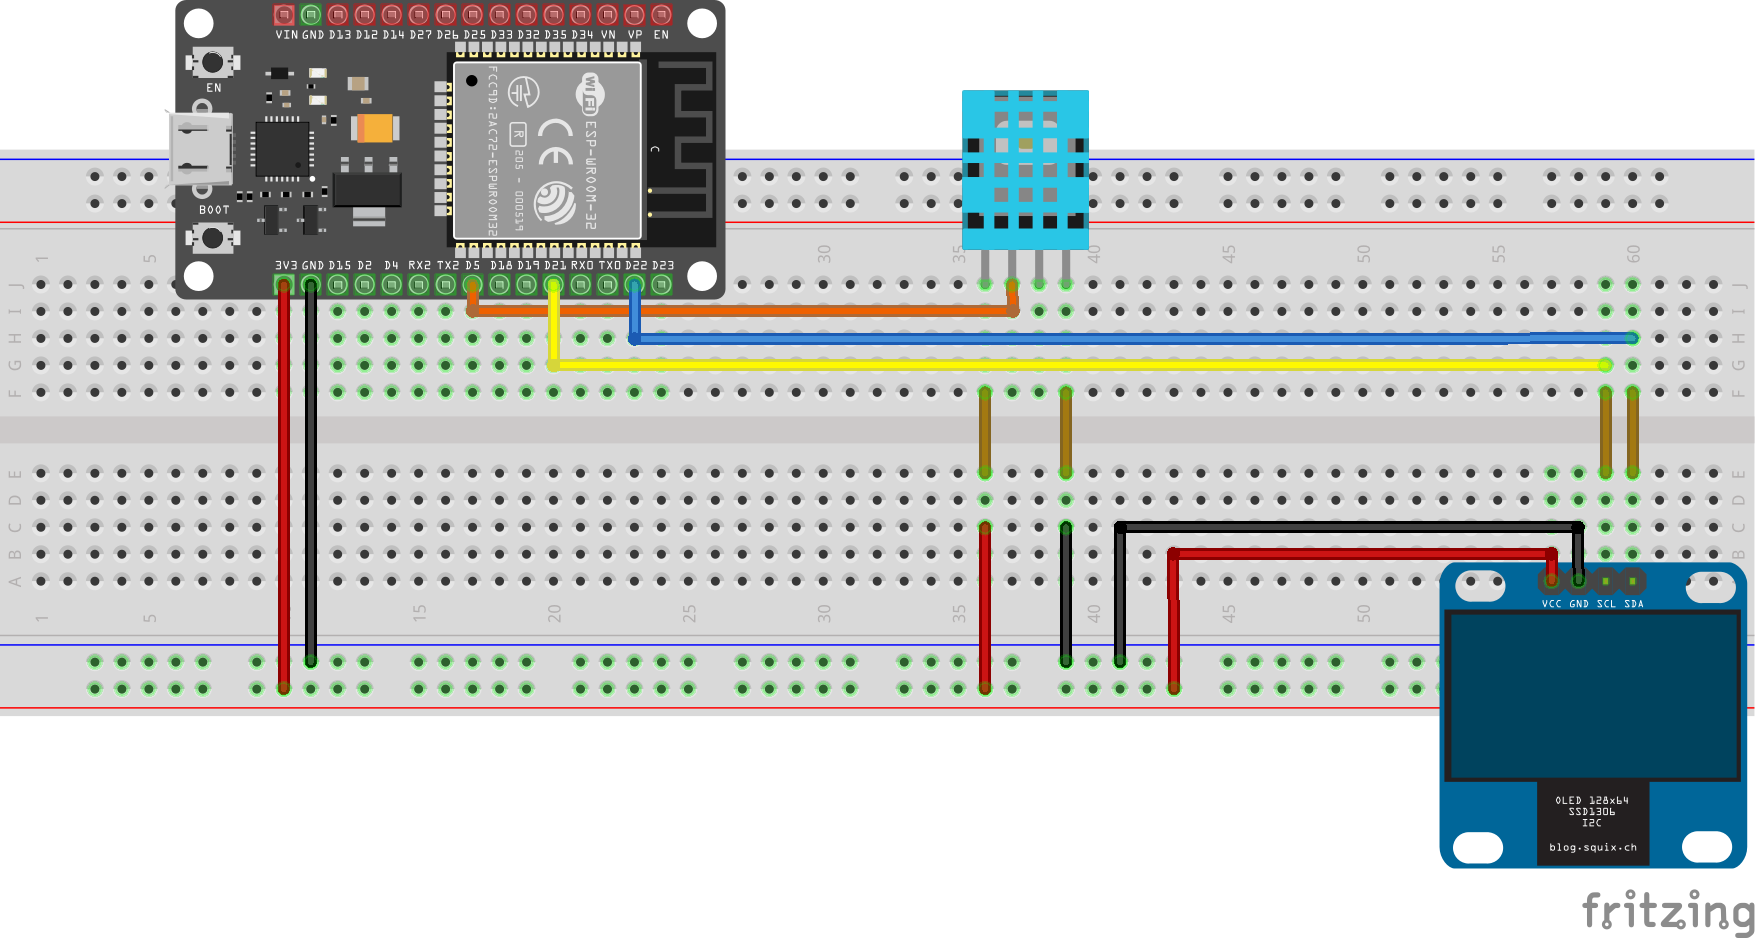
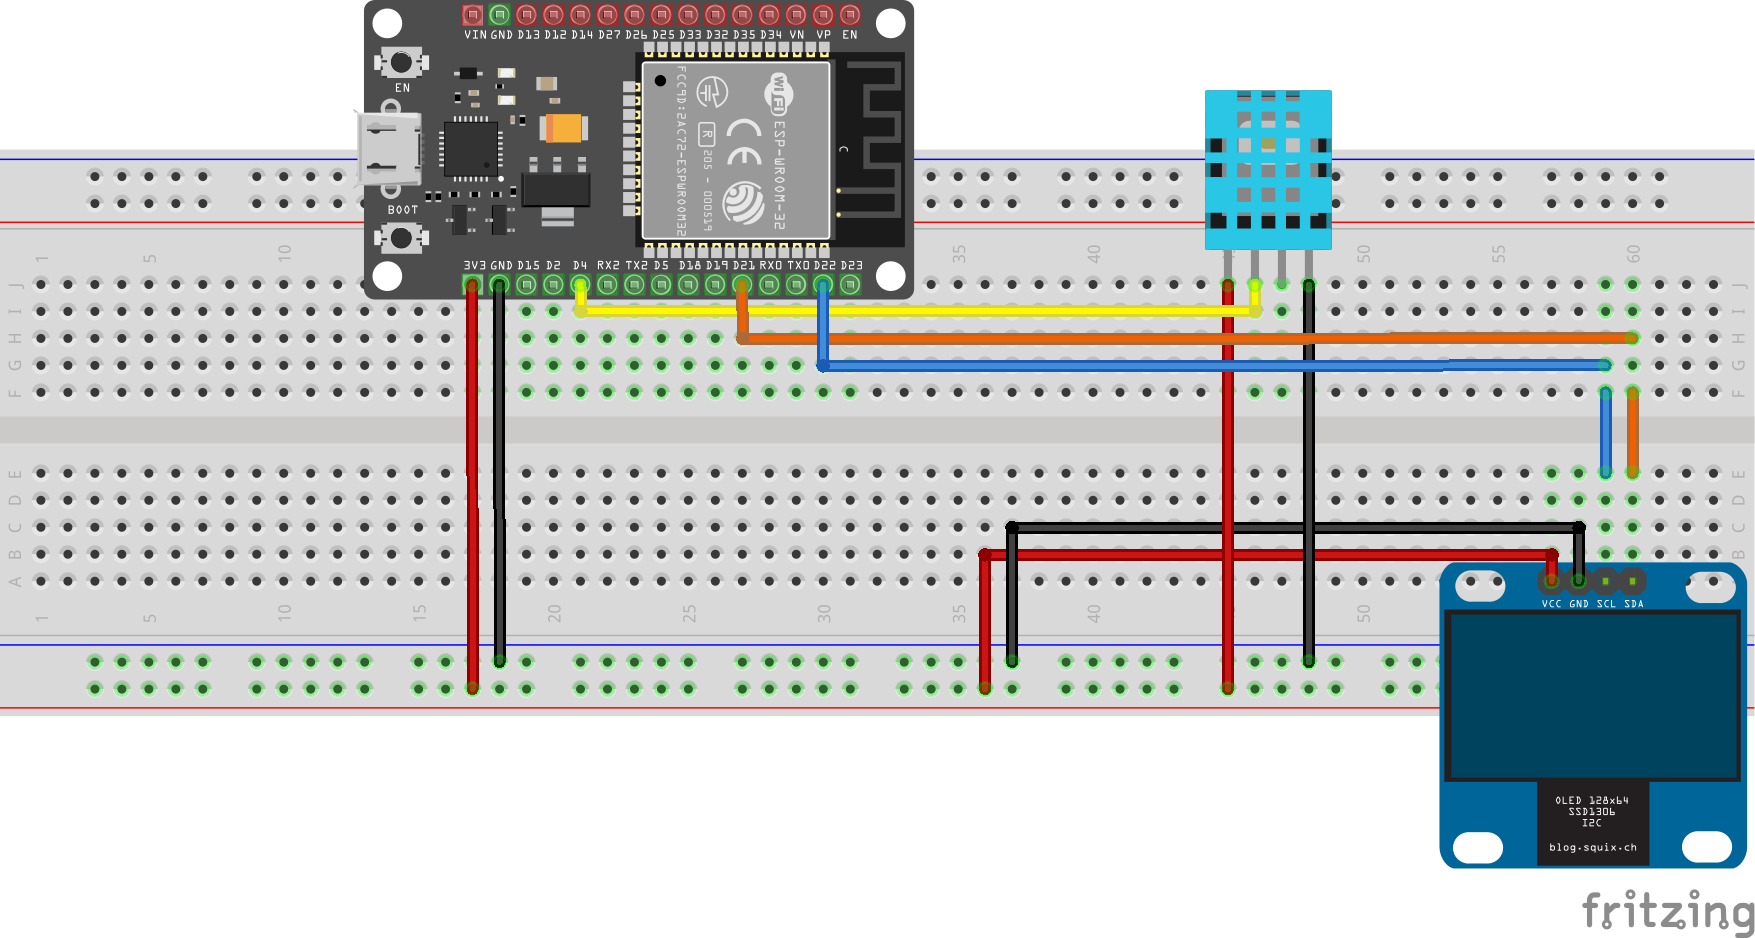
Blog entry for ESP32 (3)

Changed region(s): [[0.0923, 0.0, 0.9538, 0.742]]

diff --git a/_includes/content/_research/research-content.html b/_includes/content/_research/research-content.html
@@ -6,7 +6,10 @@
         For as long as I can remember, I have always been fascinated by technology and driven by an eagerness to discover new things through curiosity. This passion stems from my father, whose role in shaping my research career has been vital. He introduced me to technology when I was a young child, and together with my mother, consistently encouraged me to pursue a career in science and engineering.
       </p>
       <p>
-        I spent my early days playing with Legos and memorizing the Star Wars saga. When I was old enough, I received my first Lego Mindstorms set, which was truly a game changer. Through it, I learned to program basic instructions, read sensor data, and debug my numerous mistakes. Most importantly, it sparked a fundamental question that continues to drive my research today: <strong>How do machines interact with our world?</strong>
+        I spent my early days playing with Legos and memorizing the Star Wars saga. When I was old enough, I received my first Lego Mindstorms set, which was truly a game changer. Through it, I learned to program basic instructions, read sensor data, and debug my numerous mistakes. Most importantly, it sparked a fundamental question that continues to drive my research today: 
+      <p>
+        <strong>How do machines interact with our world?</strong>
+      </p>
       </p>
       <p>
         I'm currently enrolled in a Bioinformatics B.Sc. at the University of Málaga. Thanks to opportunities provided by many brilliant professors, I have been fortunate to conduct research in Computer Vision for Biomedical Applications since my third year as an undergraduate, while spending much of my free time exploring robotics, genomic analysis, and mathematics.

diff --git a/_sass/base/_reset.scss b/_sass/base/_reset.scss
@@ -1,4 +1,5 @@
 // Base reset and typography
+@import 'variables';
 body {
   margin: 0;
   font-family: Arial, sans-serif;
@@ -13,7 +14,12 @@ body {
 
 a {
   text-decoration: none;
-  color: inherit;
+  color: $color-accent; // Blue color for links
+  
+  &:hover {
+    text-decoration: underline;
+    opacity: 0.8; // Slightly faded on hover
+  }
 }
 
 ul, ol {

diff --git a/content/_blog/esp32-temperature-module.md b/content/_blog/esp32-temperature-module.md
@@ -29,9 +29,67 @@ Everything used in this project can be found in the<a href="https://www.aliexpre
 
 # Breadboard Setting
 
-<figure>
+<figure id="fig1">
 <img src="/assets/images/blog/humiditytemp/humidity_temperature_display_bb.png" alt="Fritzing schematic">
 <figcaption>
-    Fritzing circuit schematic
+    <i> Fig 1. Fritzing circuit schematic. </i>
 </figcaption>
 </figure>
+
+[Fig 1](#fig1) shows the circuit schematic used for this project. I tried to tide it as much as possible, so there are some useless jumping wires here and there. The important part of the schematic is the pin allocation for each component of the circuit. We will be using PINs 21 and 22 for I2C communication with the OLED, where the pin 21 will be used for data transfer (SDA) and the pin 22 for clock signal (SCL). For I/O communication with the DHT11 sensor you can use either PIN 4 or 5. [Fig 1](#fig1) shows PIN 4, but in the end I used PIN 5, just make sure to change it in the code. I created a <code>config.h</code> file with the following configuration:
+
+<div class="code-block">
+  <code data-lang="cpp">
+#pragma once
+
+#include <Arduino.h>
+
+namespace cfg {
+    // GPIOs
+    constexpr gpio_num_t PIN_DHT      = GPIO_NUM_5;
+    constexpr uint8_t    I2C_SDA      = 21;
+    constexpr uint8_t    I2C_SCL      = 22;
+
+    // I2C display
+    constexpr uint8_t    OLED_ADDR    = 0x3C; // OLED I2C address, i decided to define it on my own
+    constexpr uint16_t   OLED_W       = 128;
+    constexpr uint16_t   OLED_H       = 64;
+
+    // Task timing
+    constexpr TickType_t SENSOR_PERIOD = pdMS_TO_TICKS(2000); // DHT11 max 0.5 Hz
+    constexpr TickType_t UI_PERIOD     = pdMS_TO_TICKS(500);  // smoother refresh
+
+    // From now on, WiFi credentials, defined in config.cpp
+    // WiFi credentials
+    extern const char* WIFI_SSID;
+    extern const char* WIFI_PASS;
+    
+    // Server endpoint
+    extern const char* SERVER_URL;
+    
+    // I decided to send the data in batchs to avoid network saturation
+    constexpr size_t READINGS_PER_BATCH = 10;
+    constexpr size_t NETWORK_QUEUE_SIZE = 5;
+} // namespace cfg
+  </code>
+</div>
+
+The <code>config.cpp</code> file is as simple as:
+
+<div class="code-block">
+  <code data-lang="cpp">
+#include "config.h"
+
+namespace cfg {
+    // WiFi credentials
+    const char* WIFI_SSID = "(wifi SSID)";
+    const char* WIFI_PASS = "(password)";
+    
+    // Server endpoint
+    const char* SERVER_URL = "http://(your computer IP):8080/sensor-data";
+}
+  </code>
+</div>
+
+
+
